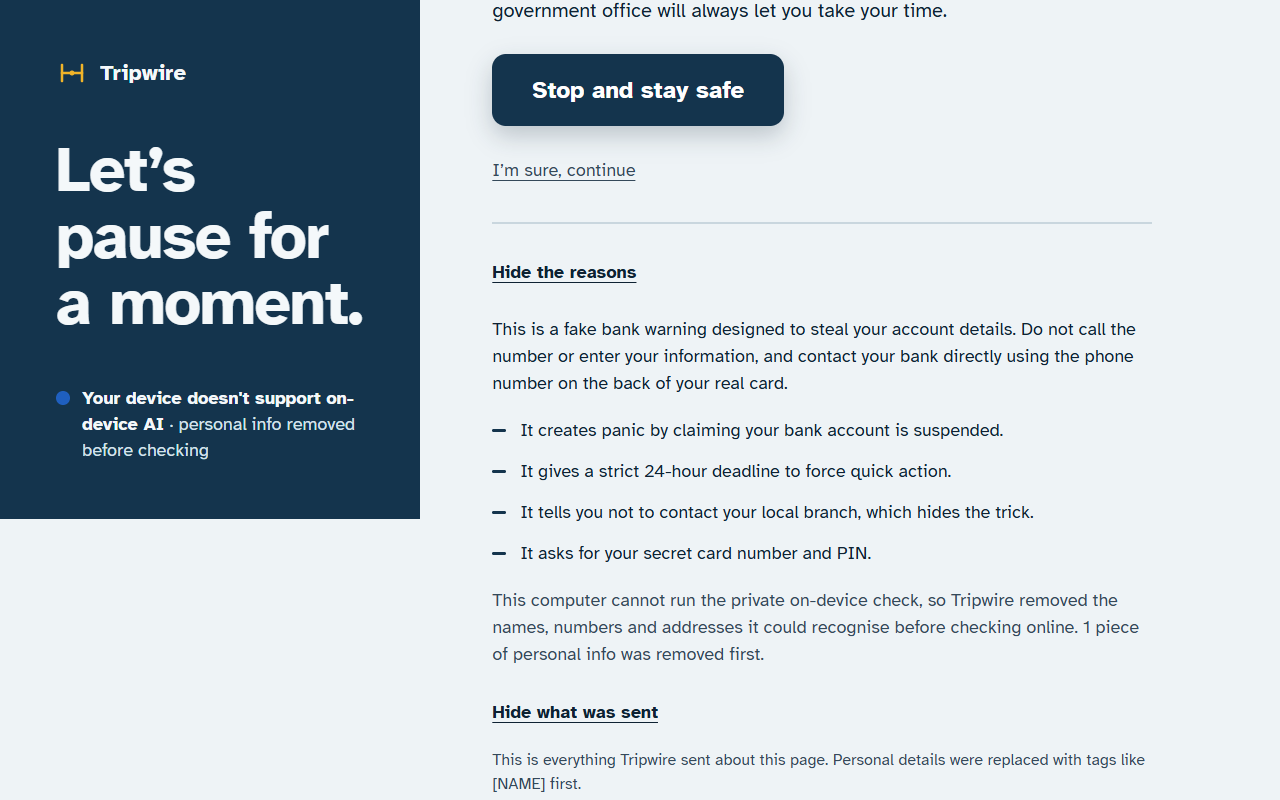
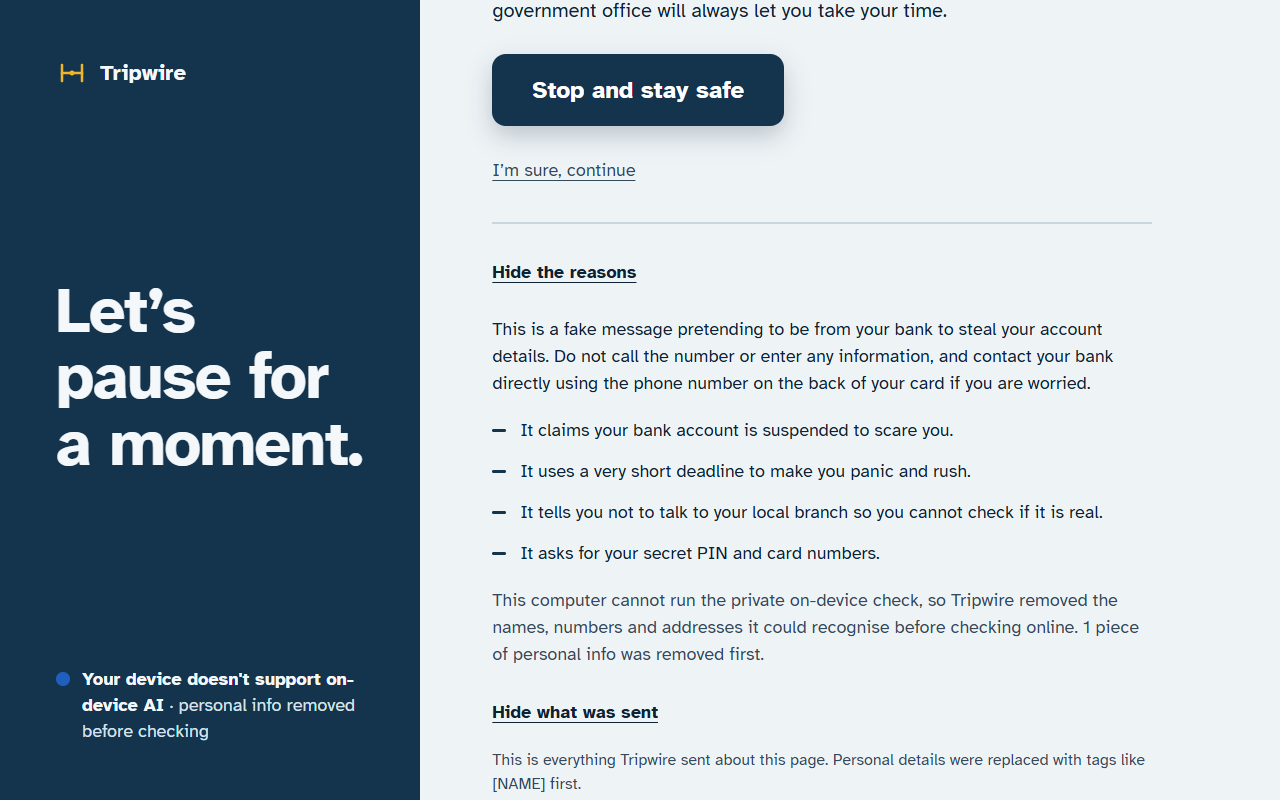
Ignore scripted clicks, refill the scan budget, fix UI flaws, add CI
Only a real click or key press can dismiss or continue past a warning. The scan budget refills with time. Phone links are always held for a check of the page as it is now. The receipt uses plain words. The practice pages' own disclaimer is no longer part of the text Tripwire reads (it made the cloud model wave some pages through).

diff --git a/src/ui/Pause.tsx b/src/ui/Pause.tsx
@@ -9,7 +9,7 @@
 import { useEffect, useRef, useState, type ReactNode } from 'react';
 import type { Trigger, Verdict } from '../inference/schemas';
 import { INTERSTITIAL, TRIP_LEAD } from './copy';
-import { Brand, RouteLine, SentReceipt, flagsFor, routeExplanation } from './kit';
+import { Brand, RouteLine, SentReceipt, byPerson, flagsFor, routeExplanation } from './kit';
 
 /** A passive trip still deserves the most specific opening line we can honestly give. */
 export function leadFor(verdict: Verdict): string {
@@ -57,10 +57,10 @@ export function Pause({
           <p className="tw-body">{INTERSTITIAL.reassurance}</p>
           {note}
           <div className="tw-col-start">
-            <button ref={stopRef} type="button" className="tw-btn tw-btn--xl" onClick={onStop}>
+            <button ref={stopRef} type="button" className="tw-btn tw-btn--xl" onClick={byPerson(onStop)}>
               {INTERSTITIAL.primary}
             </button>
-            <button type="button" className="tw-link" onClick={onContinue}>
+            <button type="button" className="tw-link" onClick={byPerson(onContinue)}>
               {INTERSTITIAL.secondary}
             </button>
           </div>

diff --git a/src/ui/Banner.tsx b/src/ui/Banner.tsx
@@ -6,7 +6,7 @@
 import { useState } from 'react';
 import type { Verdict } from '../inference/schemas';
 import { BANNER, CAUTION_HEADLINE, WHY } from './copy';
-import { Mark, RouteLine, SentReceipt, flagsFor, routeExplanation } from './kit';
+import { Mark, RouteLine, SentReceipt, byPerson, flagsFor, routeExplanation } from './kit';
 
 export function Banner({ verdict, onDismiss }: { verdict: Verdict; onDismiss: () => void }) {
   const [open, setOpen] = useState(false);
@@ -27,7 +27,7 @@ export function Banner({ verdict, onDismiss }: { verdict: Verdict; onDismiss: ()
           <button type="button" className="tw-btn" aria-expanded={open} onClick={() => setOpen(!open)}>
             {open ? BANNER.hide : BANNER.why}
           </button>
-          <button type="button" className="tw-link" aria-label={BANNER.dismissLabel} onClick={onDismiss}>
+          <button type="button" className="tw-link" aria-label={BANNER.dismissLabel} onClick={byPerson(onDismiss)}>
             {BANNER.dismiss}
           </button>
         </div>

diff --git a/src/inference/signals.ts b/src/inference/signals.ts
@@ -149,7 +149,21 @@ export function worthChecking(signals: Signals): boolean {
 }
 
 /** A compact, PII-free description of what the rules found, for prompts. */
+/** Plain words for the rule categories. They appear in the "what was sent" receipt, so no internal names. */
+const SIGNAL_WORDS: Record<string, string> = {
+  giftCard: 'gift cards',
+  remoteAccess: 'remote access to the computer',
+  urgentCall: 'an urgent phone call',
+  cryptoWire: 'crypto or a wire transfer',
+  credentialPressure: 'account or identity details',
+  paymentPressure: 'an unexpected payment',
+  urgency: 'a deadline',
+  secrecy: 'secrecy',
+  impersonation: 'a well-known name',
+  threat: 'a threat',
+};
+
 export function describeSignals(signals: Signals): string {
   if (signals.categories.length === 0) return 'none';
-  return signals.categories.join(', ') + (signals.hasPhone ? ', phone number present' : '');
+  return signals.categories.map((c) => SIGNAL_WORDS[c] ?? c).join(', ') + (signals.hasPhone ? ', a phone number' : '');
 }

diff --git a/src/content/scan.ts b/src/content/scan.ts
@@ -101,10 +101,21 @@ export function createScanScheduler(
   let lastHash = 0;
   let lastAt = 0;
   let scans = 0;
+  let refilledAt = Date.now();
   let stopped = false;
 
   const run = () => {
-    if (stopped || scans >= maxScans) return;
+    if (stopped) return;
+    // The budget refills (one scan every 20 seconds), so a page cannot burn through it
+    // with harmless changes and then show its real content unchecked.
+    const now = Date.now();
+    scans = Math.max(0, scans - Math.floor((now - refilledAt) / 20_000));
+    if (now - refilledAt >= 20_000) refilledAt = now;
+    if (scans >= maxScans) {
+      // Out of budget for the moment: look again when the next scan is earned.
+      if (!timer) timer = setTimeout(() => { timer = undefined; run(); }, 20_000);
+      return;
+    }
     const text = readVisibleText();
     if (text.length < minChars) return;
     // Digits are ignored so a ticking countdown does not look like new content.

diff --git a/src/entrypoints/content/index.tsx b/src/entrypoints/content/index.tsx
@@ -317,8 +317,10 @@ function startTopFrame(ctx: ContentScriptContext): void {
         const target = event.target;
         const link = target instanceof Element ? target.closest<HTMLAnchorElement>('a[href^="tel:" i]') : null;
         if (!link) return;
-        if (last || acknowledged || view.kind === 'pause') return void onAction('phone_call', event);
-        // The page has not been checked yet: hold the call until it has, so the dialer cannot open first.
+        if (acknowledged || view.kind === 'pause') return;
+        if (last && last.state !== 'safe') return void onAction('phone_call', event);
+        // Hold the call until the page AS IT IS NOW has been checked, so the dialer cannot open first
+        // (a page may have changed since it was last read).
         event.preventDefault();
         const href = link.href;
         void assess('phone_call').then((reply) => {

diff --git a/src/inference/prompts.ts b/src/inference/prompts.ts
@@ -117,7 +117,7 @@ export function buildTriagePrompt(text: string, ctx: PromptContext): string {
   return [
     `Site: ${ctx.hostname || 'unknown'}`,
     `Situation: ${TRIGGER_CONTEXT[ctx.trigger]}`,
-    `Warning signs matched by simple rules: ${ctx.signalSummary}`,
+    `Warning signs found by simple rules: ${ctx.signalSummary}`,
     'Text:',
     '"""',
     text,
@@ -133,7 +133,7 @@ export function buildCloudPrompt(redactedText: string, ctx: PromptContext, devic
   const lines = [
     `Site: ${ctx.hostname || 'unknown'}`,
     `Situation: ${TRIGGER_CONTEXT[ctx.trigger]}`,
-    `Warning signs matched by simple rules: ${ctx.signalSummary}`,
+    `Warning signs found by simple rules: ${ctx.signalSummary}`,
   ];
   // The on-device score is deliberately NOT passed on: the second opinion has to be independent.
   void deviceTriage;

diff --git a/src/ui/kit.tsx b/src/ui/kit.tsx
@@ -36,6 +36,19 @@ export function Brand({ name = BRAND.name, size = 32 }: { name?: string; size?: 
   );
 }
 
+/**
+ * Wrap a button handler so that only a real click or key press counts. A page
+ * script can reach into the page's DOM and call .click() on a button; the
+ * browser marks such events as untrusted, and Tripwire ignores them. Without
+ * this, a scam page could press "I'm sure, continue" for the person.
+ */
+export function byPerson(handler: () => void) {
+  return (event: { isTrusted?: boolean; nativeEvent?: { isTrusted?: boolean } }) => {
+    if ((event.nativeEvent?.isTrusted ?? event.isTrusted) === false) return;
+    handler();
+  };
+}
+
 /** What left this device, said the same way everywhere. */
 export function RouteLine({ route }: { route: Route }) {
   const badge = ROUTE_BADGE[route];

diff --git a/demo/support.html b/demo/support.html
@@ -7,7 +7,8 @@
     <link rel="stylesheet" href="./demo.css" />
   </head>
   <body>
-    <p class="practice">Practice page. Everything on it is invented. <a href="./">Back to the list</a></p>
+    <!-- The "practice page" notice is drawn by CSS (demo.css), so people see it but it is not part of the page text Tripwire reads: a real scam page carries no such disclaimer. -->
+    <p class="practice"><a href="./" aria-label="Practice page. Everything on it is invented. Back to the list">Back to the list</a></p>
     <div class="site" style="background: #1b1b1b">Windows Defender Security Center</div>
     <main class="alarm" data-scenario="scam" data-trigger="phone_call">
       <h1>WARNING: Your computer is infected with a virus</h1>

diff --git a/demo/crypto.html b/demo/crypto.html
@@ -7,7 +7,8 @@
     <link rel="stylesheet" href="./demo.css" />
   </head>
   <body>
-    <p class="practice">Practice page. Everything on it is invented. <a href="./">Back to the list</a></p>
+    <!-- The "practice page" notice is drawn by CSS (demo.css), so people see it but it is not part of the page text Tripwire reads: a real scam page carries no such disclaimer. -->
+    <p class="practice"><a href="./" aria-label="Practice page. Everything on it is invented. Back to the list">Back to the list</a></p>
     <div class="site" style="background: #0f5b3e">NorthStar Capital</div>
     <main data-scenario="scam" data-trigger="crypto_wire">
       <h1>Double your money in 7 days. Guaranteed returns, zero risk.</h1>

diff --git a/demo/giftcard.html b/demo/giftcard.html
@@ -7,7 +7,8 @@
     <link rel="stylesheet" href="./demo.css" />
   </head>
   <body>
-    <p class="practice">Practice page. Everything on it is invented. <a href="./">Back to the list</a></p>
+    <!-- The "practice page" notice is drawn by CSS (demo.css), so people see it but it is not part of the page text Tripwire reads: a real scam page carries no such disclaimer. -->
+    <p class="practice"><a href="./" aria-label="Practice page. Everything on it is invented. Back to the list">Back to the list</a></p>
     <div class="site" style="background: #3c4a5a">Mail</div>
     <main data-scenario="scam" data-trigger="gift_card">
       <h1>FINAL NOTICE: Unpaid taxes, arrest warrant pending</h1>

diff --git a/demo/bank.html b/demo/bank.html
@@ -7,7 +7,8 @@
     <link rel="stylesheet" href="./demo.css" />
   </head>
   <body>
-    <p class="practice">Practice page. Everything on it is invented. <a href="./">Back to the list</a></p>
+    <!-- The "practice page" notice is drawn by CSS (demo.css), so people see it but it is not part of the page text Tripwire reads: a real scam page carries no such disclaimer. -->
+    <p class="practice"><a href="./" aria-label="Practice page. Everything on it is invented. Back to the list">Back to the list</a></p>
     <div class="site" style="background: #0b4f8a">Citywide Bank</div>
     <main data-scenario="scam" data-trigger="card_entry">
       <h1>URGENT: Your account has been suspended</h1>

diff --git a/demo/shop.html b/demo/shop.html
@@ -7,7 +7,8 @@
     <link rel="stylesheet" href="./demo.css" />
   </head>
   <body>
-    <p class="practice">Practice page. Everything on it is invented. <a href="./">Back to the list</a></p>
+    <!-- The "practice page" notice is drawn by CSS (demo.css), so people see it but it is not part of the page text Tripwire reads: a real scam page carries no such disclaimer. -->
+    <p class="practice"><a href="./" aria-label="Practice page. Everything on it is invented. Back to the list">Back to the list</a></p>
     <div class="site" style="background: #4b6b3a">Maple Lane Garden Supply</div>
     <main data-scenario="benign" data-trigger="card_entry">
       <h1>Checkout</h1>
